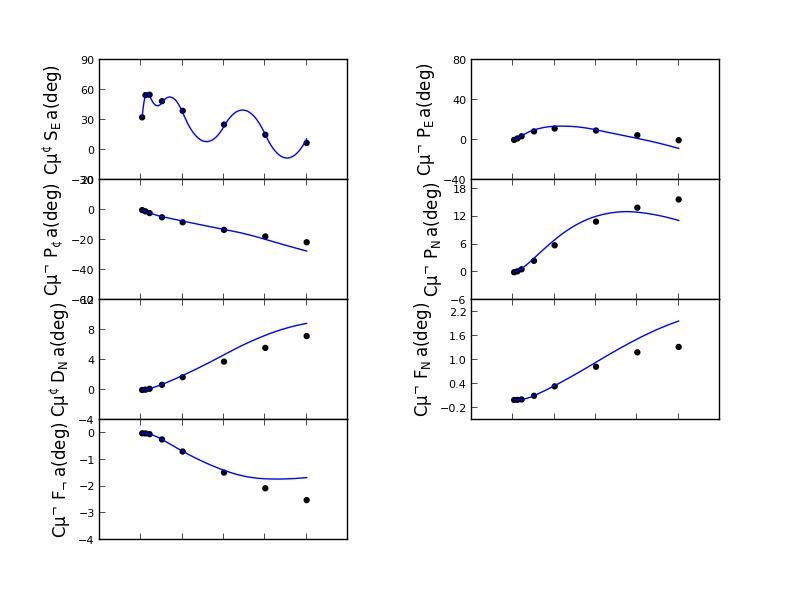
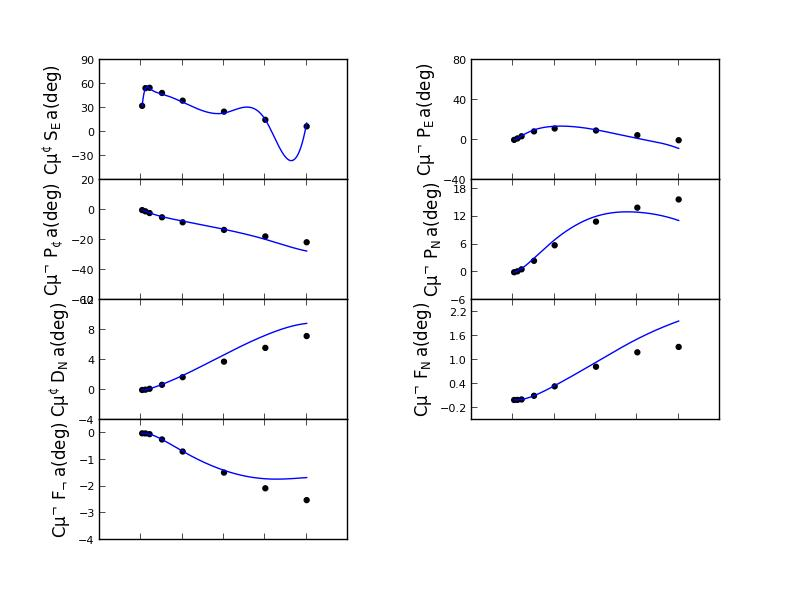
modified:   plot_scattering_phase_shift.py 	modified:   pp_phase_shift_2.jpg

diff --git a/hw_Nmax_analysis/plot_phase_shift/plot_scattering_phase_shift.py b/hw_Nmax_analysis/plot_phase_shift/plot_scattering_phase_shift.py
@@ -32,7 +32,7 @@ def input_residual_data(file_path,raw_data):
 
 
 def plot_phase_shift():
-    file_path = "residual_data_weight10.txt"
+    file_path = "./residual_data_weight10.txt"
     with open(file_path,'r') as f:
         count = len(open(file_path,'rU').readlines())
         data = f.readlines()
@@ -64,7 +64,7 @@ def plot_phase_shift():
     y_list_1   = raw_data_1[start_line:start_line+8,1]  # exp
     y_list_2   = raw_data_1[start_line:start_line+8,0]  # theo
     x_list_new = np.linspace(np.min(x_list),np.max(x_list),num=plot_interpol_count)
-    func       = interpolate.interp1d(x_list,y_list_2,kind='quadratic')
+    func       = interpolate.interp1d(x_list,y_list_2,kind=kind)
     y_list_2_new = func(x_list_new) 
 
     l_exp      = plt.scatter(x_list,y_list_1,color = 'k',s = point_size,marker ='.')
@@ -85,7 +85,7 @@ def plot_phase_shift():
     y_list_1   = raw_data_1[start_line:start_line+8,1]  # exp
     y_list_2   = raw_data_1[start_line:start_line+8,0]  # theo
     x_list_new = np.linspace(np.min(x_list),np.max(x_list),num=plot_interpol_count)
-    func       = interpolate.interp1d(x_list,y_list_2,kind='quadratic')
+    func       = interpolate.interp1d(x_list,y_list_2,kind=kind)
     y_list_2_new = func(x_list_new) 
 
     l_exp      = plt.scatter(x_list,y_list_1,color = 'k',s = point_size,marker ='.')
@@ -106,7 +106,7 @@ def plot_phase_shift():
     y_list_1   = raw_data_1[start_line:start_line+8,1]  # exp
     y_list_2   = raw_data_1[start_line:start_line+8,0]  # theo
     x_list_new = np.linspace(np.min(x_list),np.max(x_list),num=plot_interpol_count)
-    func       = interpolate.interp1d(x_list,y_list_2,kind='quadratic')
+    func       = interpolate.interp1d(x_list,y_list_2,kind=kind)
     y_list_2_new = func(x_list_new) 
 
     l_exp      = plt.scatter(x_list,y_list_1,color = 'k',s = point_size,marker ='.')
@@ -126,7 +126,7 @@ def plot_phase_shift():
     y_list_1   = raw_data_1[start_line:start_line+8,1]  # exp
     y_list_2   = raw_data_1[start_line:start_line+8,0]  # theo
     x_list_new = np.linspace(np.min(x_list),np.max(x_list),num=plot_interpol_count)
-    func       = interpolate.interp1d(x_list,y_list_2,kind='quadratic')
+    func       = interpolate.interp1d(x_list,y_list_2,kind=kind)
     y_list_2_new = func(x_list_new) 
 
     l_exp      = plt.scatter(x_list,y_list_1,color = 'k',s = point_size,marker ='.')
@@ -146,7 +146,7 @@ def plot_phase_shift():
     y_list_1   = raw_data_1[start_line:start_line+8,1]  # exp
     y_list_2   = raw_data_1[start_line:start_line+8,0]  # theo
     x_list_new = np.linspace(np.min(x_list),np.max(x_list),num=plot_interpol_count)
-    func       = interpolate.interp1d(x_list,y_list_2,kind='quadratic')
+    func       = interpolate.interp1d(x_list,y_list_2,kind=kind)
     y_list_2_new = func(x_list_new) 
 
     l_exp      = plt.scatter(x_list,y_list_1,color = 'k',s = point_size,marker ='.')
@@ -166,7 +166,7 @@ def plot_phase_shift():
     y_list_1   = raw_data_1[start_line:start_line+8,1]  # exp
     y_list_2   = raw_data_1[start_line:start_line+8,0]  # theo
     x_list_new = np.linspace(np.min(x_list),np.max(x_list),num=plot_interpol_count)
-    func       = interpolate.interp1d(x_list,y_list_2,kind='quadratic')
+    func       = interpolate.interp1d(x_list,y_list_2,kind=kind)
     y_list_2_new = func(x_list_new) 
 
     l_exp      = plt.scatter(x_list,y_list_1,color = 'k',s = point_size,marker ='.')
@@ -186,7 +186,7 @@ def plot_phase_shift():
     y_list_1   = raw_data_1[start_line:start_line+8,1]  # exp
     y_list_2   = raw_data_1[start_line:start_line+8,0]  # theo
     x_list_new = np.linspace(np.min(x_list),np.max(x_list),num=plot_interpol_count)
-    func       = interpolate.interp1d(x_list,y_list_2,kind='quadratic')
+    func       = interpolate.interp1d(x_list,y_list_2,kind=kind)
     y_list_2_new = func(x_list_new) 
 
     l_exp      = plt.scatter(x_list,y_list_1,color = 'k',s = point_size,marker ='.')
@@ -222,7 +222,7 @@ energy_line        = 1
 E_max              = 200
 plot_interpol_count= 1000
 point_size         = 50
-x_fontsize        = 8
-y_fontsize        = 8
-
+x_fontsize         = 8
+y_fontsize         = 8
+kind               = 'cubic' 
 plot_phase_shift()
